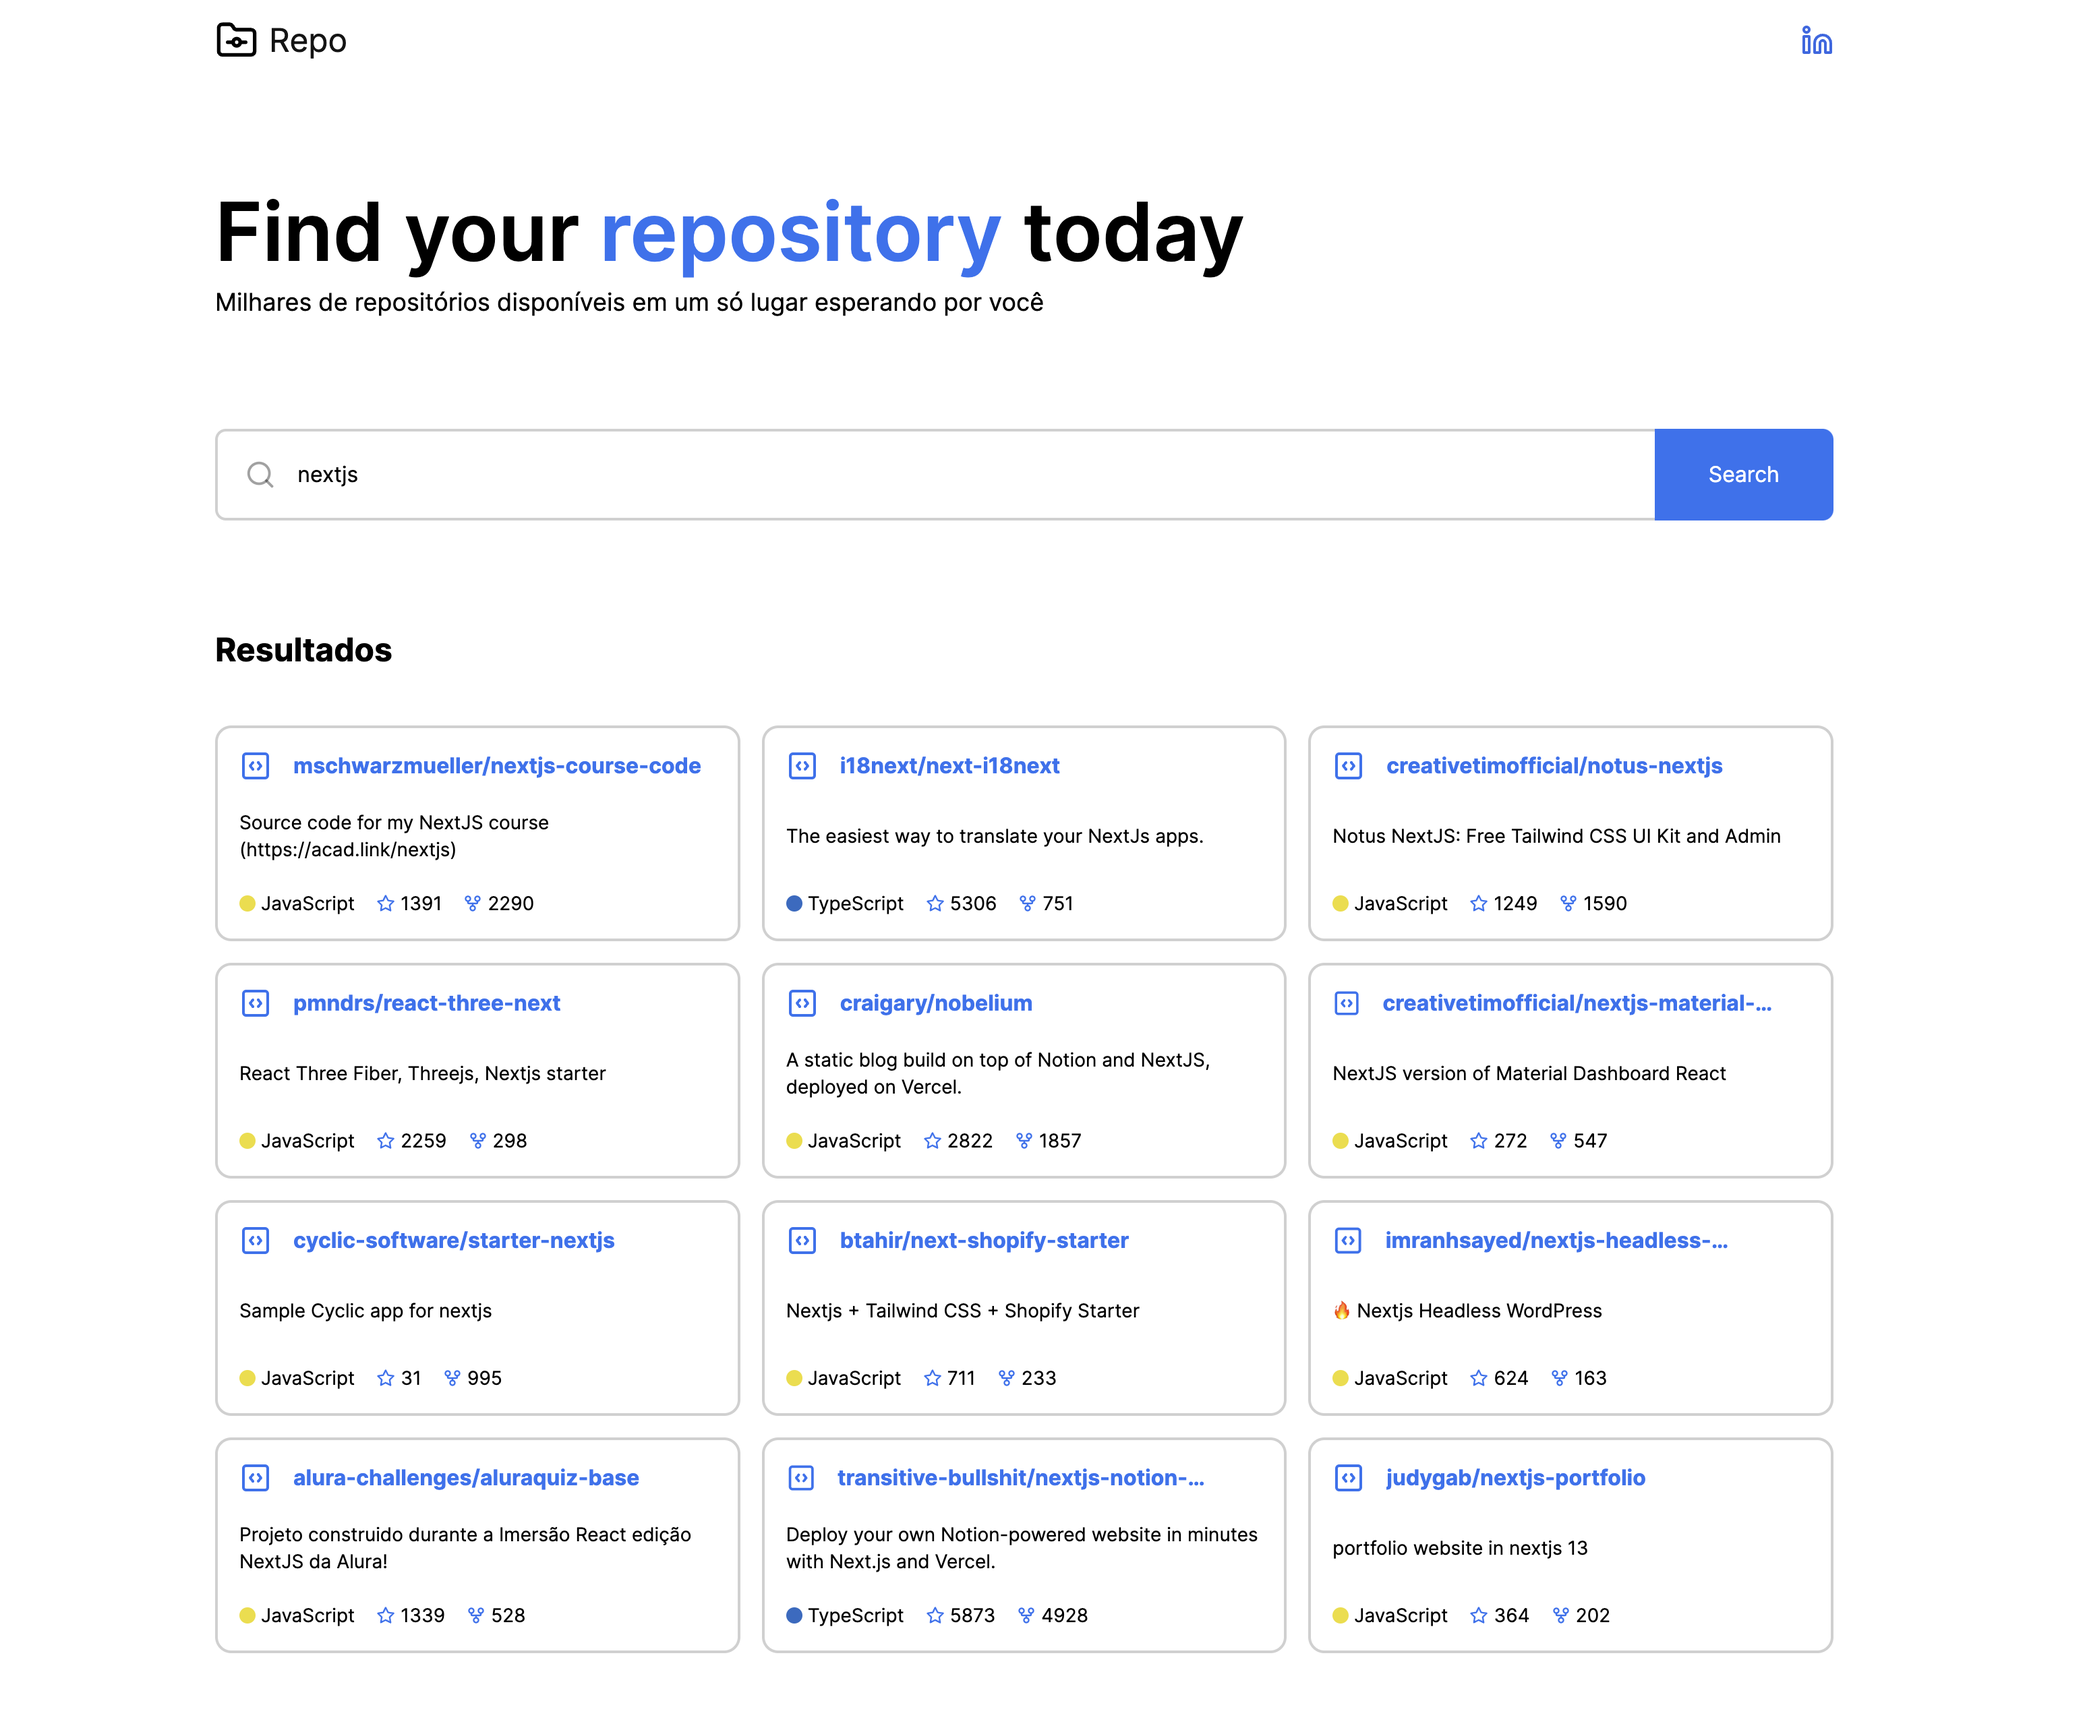
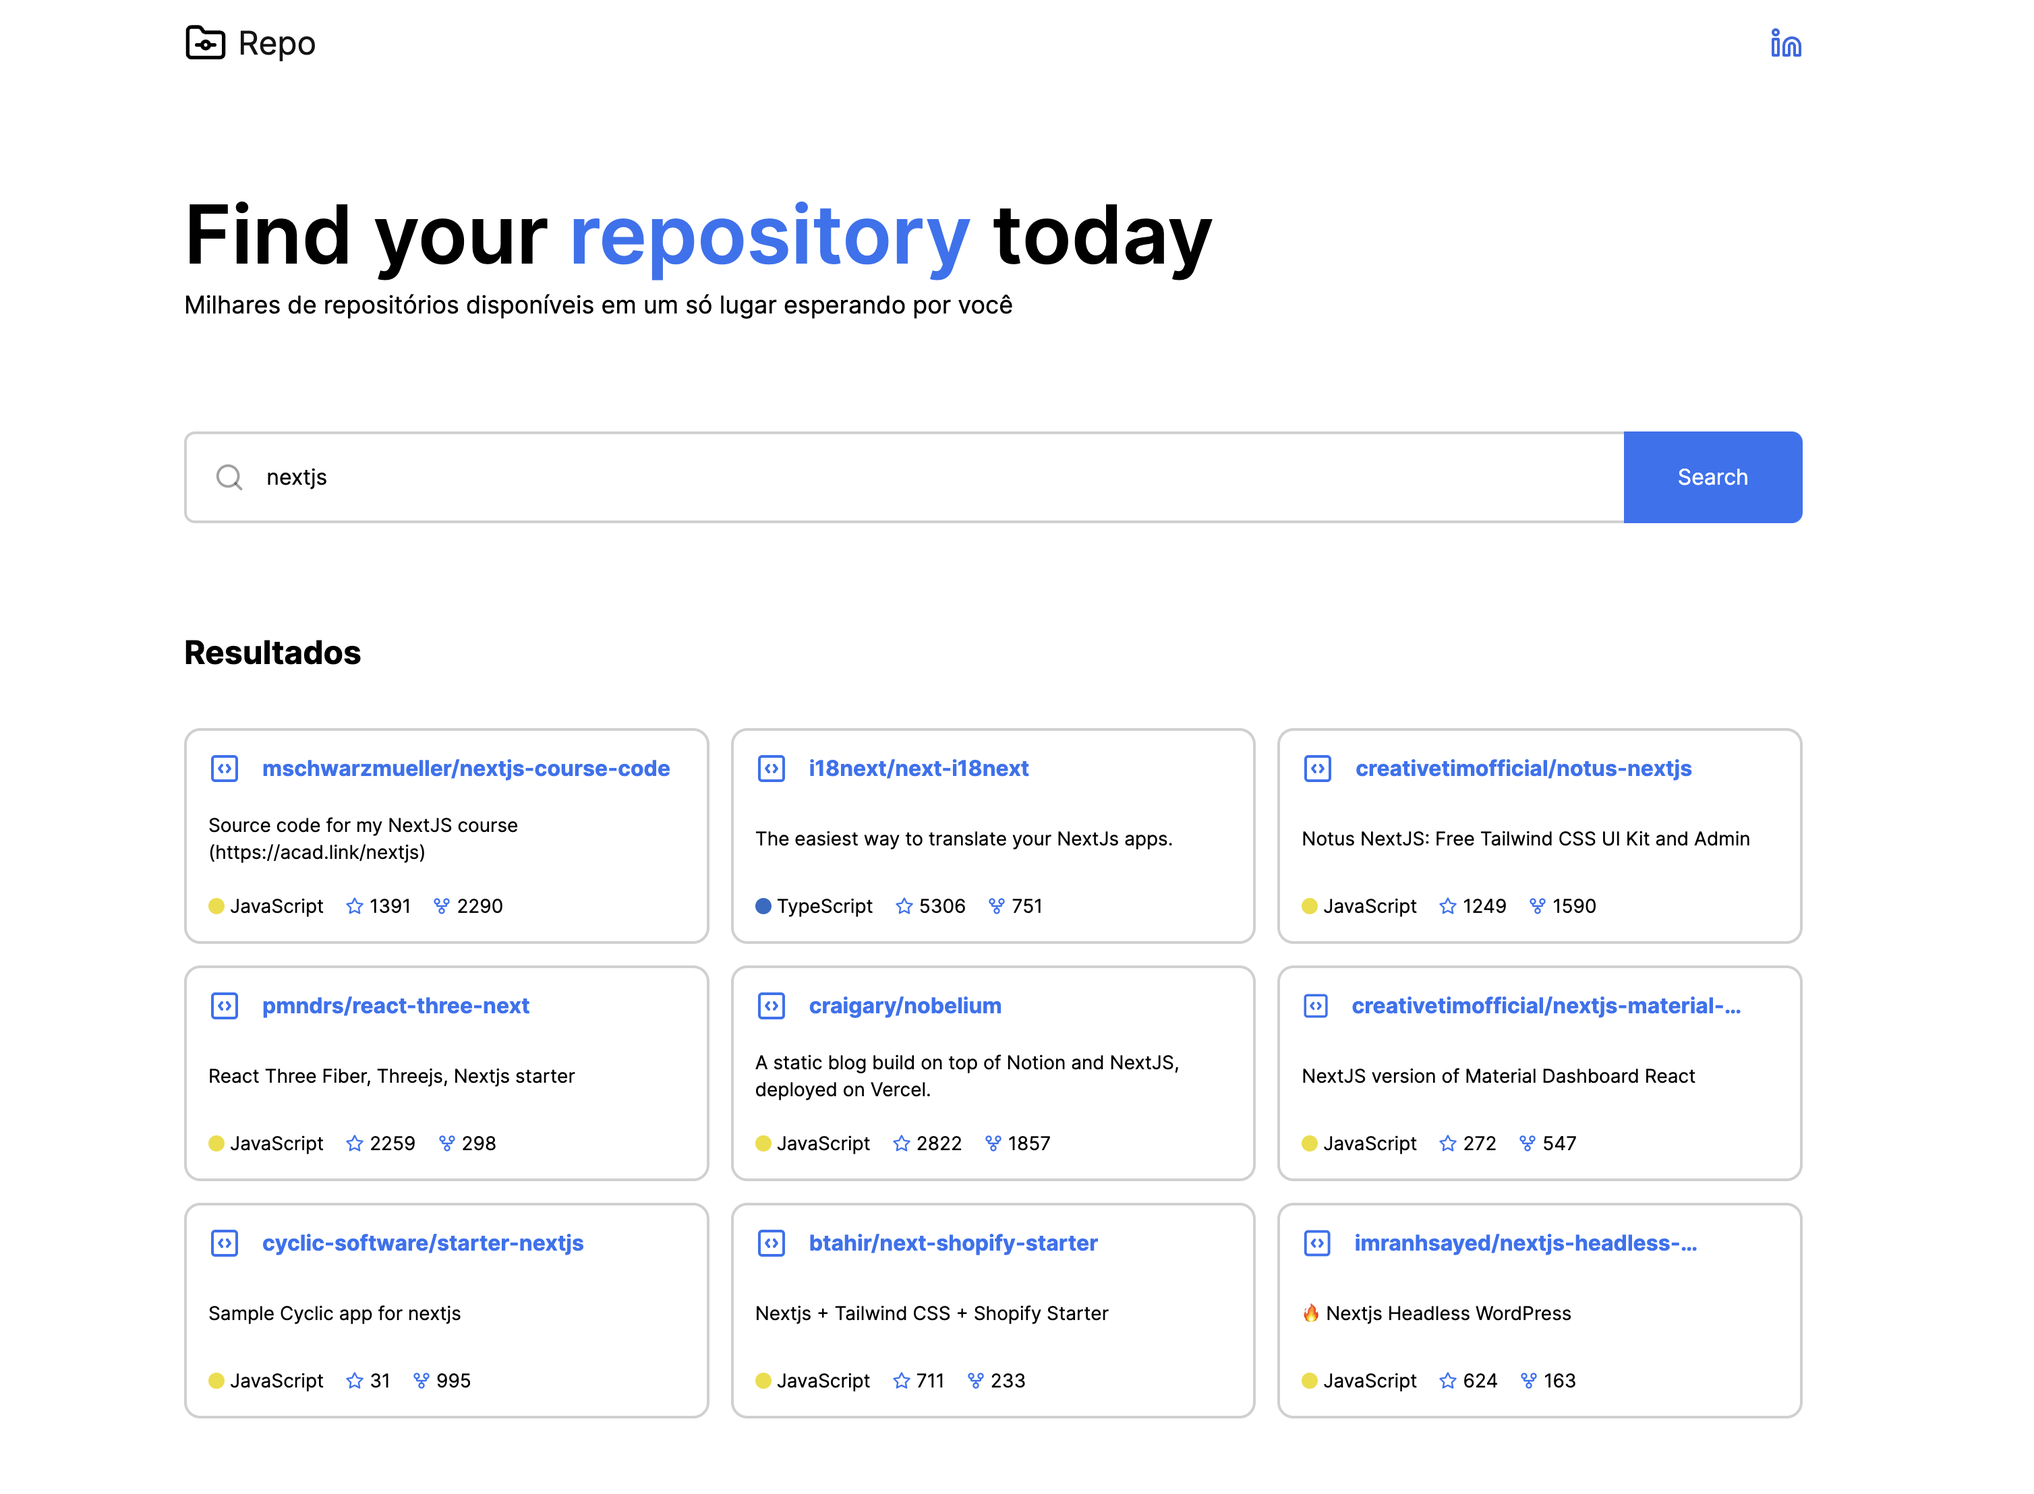
docs: add demo link in readme

Changed region(s): [[0.0935, 0.2491, 0.9038, 0.9653], [0.0935, 0.0934, 0.5922, 0.218], [0.0935, 0.0, 0.1558, 0.0623]]

diff --git a/src/graphql/queries/searchRepositories.ts b/src/graphql/queries/searchRepositories.ts
@@ -2,7 +2,7 @@ import { gql } from "@apollo/client";
 
 export const searchRepositories = gql`
   query ($topic: String!) {
-    search(query: $topic, type: REPOSITORY, first: 12) {
+    search(query: $topic, type: REPOSITORY, first: 9) {
       nodes {
         ... on Repository {
           id

diff --git a/README.md b/README.md
@@ -10,6 +10,10 @@ Projeto proposto originalmente como desafio técnico para uma vaga de front-end.
 
 [![My Skills](https://skillicons.dev/icons?i=ts,vite,tailwind,graphql)](https://skillicons.dev)
 
+## Demo
+
+- [Live](https://github-graphql-five.vercel.app/)
+
 ## Getting Started
 
 1. **Clone project**: `git clone git@github.com:d0ugui/github-graphql.git`
@@ -22,5 +26,3 @@ Projeto proposto originalmente como desafio técnico para uma vaga de front-end.
 This software is available under the following licenses:
 
 - [MIT](https://rem.mit-license.org)
-
-- remove unused icon, add spinner, add loading repositories state in store, disabled search button when is loading, add reponsivity and readme
